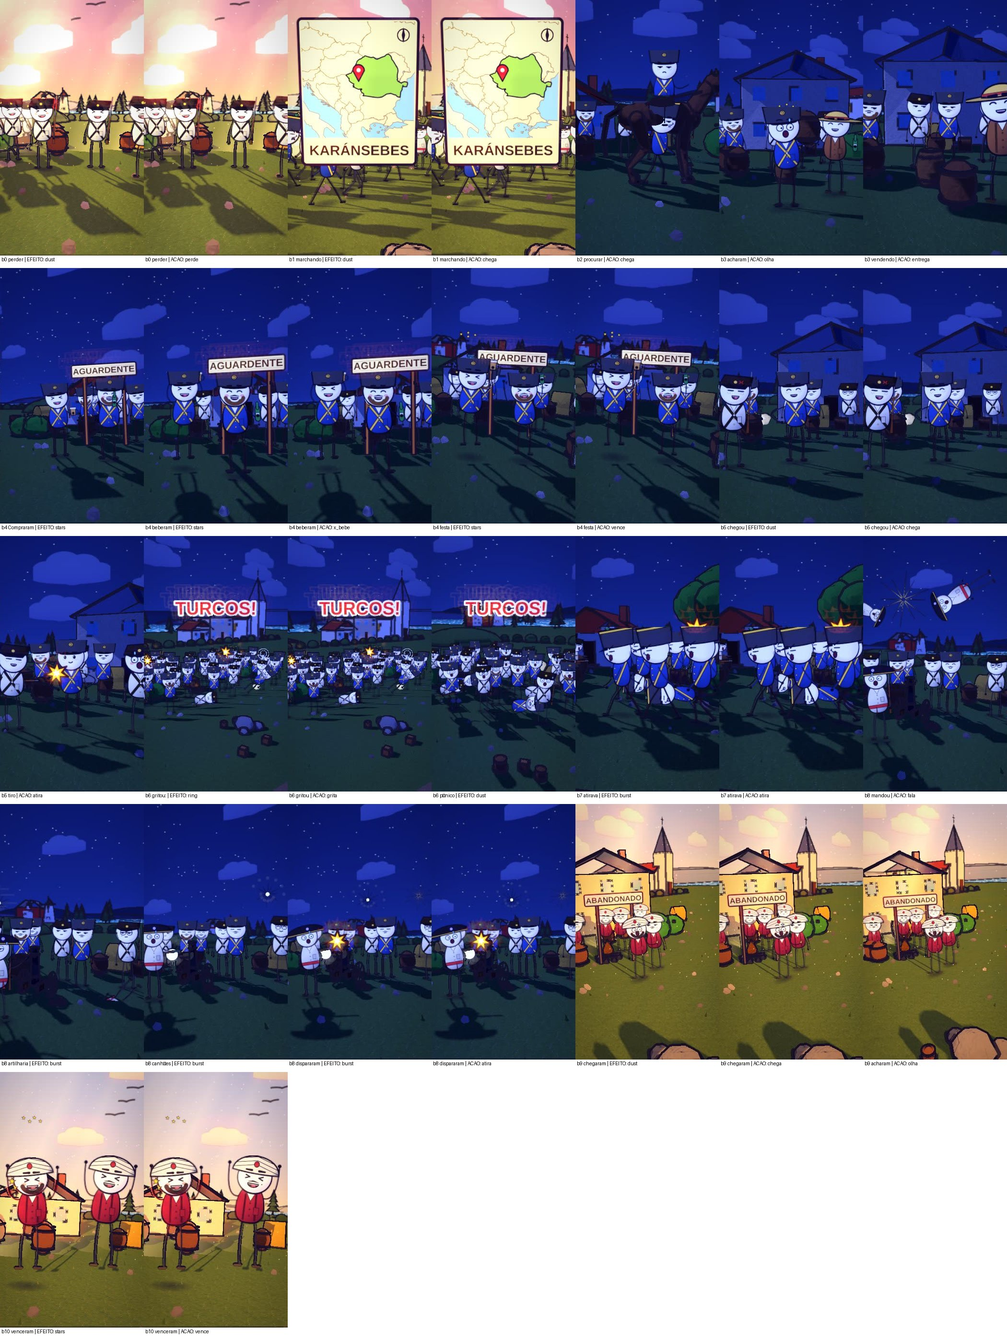
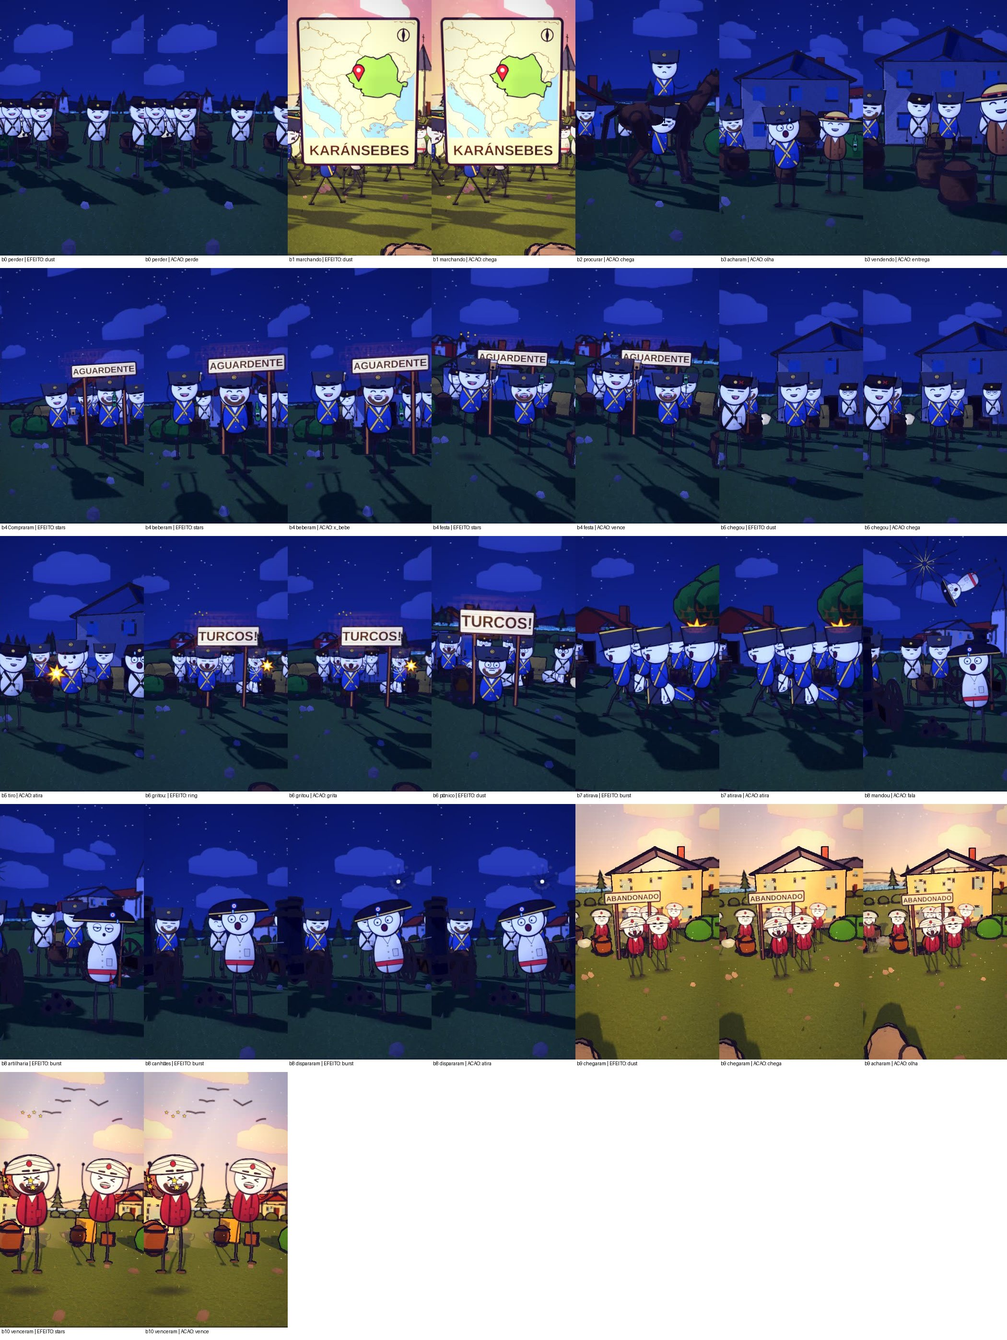
Los Angeles: storyboard aprovado
Claude-Session: https://claude.ai/code/session_01HE8Dy3UcXXZZMLa7uzjNJD

Changed region(s): [[0.0, 0.3735, 1.0, 0.9961], [0.0, 0.0, 0.3095, 0.2179]]

diff --git a/ferramenta-shorts/stories/losangeles1942/folha2_producao.md b/ferramenta-shorts/stories/losangeles1942/folha2_producao.md
@@ -11,6 +11,23 @@ Coordenadas de cada cena para modelagem, animacao e camera, com os RISCOS que o 
 - Objetos/modelos: kit/searchlight, buildings/apartment, buildings/house_two, nature/lamppost
 - CONFERIR NA FOLHA DE CONTATO (o que a narracao cita tem que aparecer): cidade
 - RISCOS: nenhum
+<!-- FICHA -->
+
+### FICHA TECNICA DA CENA (lugar, camera, personagens, objetos, efeitos, texto)
+- LOCAL: rua de cidade (predios dos dois lados); hora: noite
+- CAMERA: plano medio, 2 personagens de corpo inteiro; plano medio enquadrando personagens e searchlight juntos (camera a 11.5 m)
+- PERSONAGENS: SOL (soldado) na esquerda, expressao shock; CID (comerciante) na direita, expressao scared; multidao de 12 (CID, SOL) ATRAS dos principais; acao: susto
+- OBJETO kit/searchlight: MEIO, centro (objeto principal da cena); tamanho na tela: 32% da altura da tela; estado: PARADO; 1.8 m: entre e um pouco atras dos personagens, mesmo plano, tamanho de uma pessoa
+- EFEITO clarao/explosao: na frente, na altura do peito do 1o personagem; entra no quadro +25 da cena
+- EFEITO clarao/explosao: na frente, na altura do peito do 1o personagem; entra no quadro +40 da cena
+- EFEITO clarao/explosao: na frente, na altura do peito do 1o personagem; entra no quadro +60 da cena
+- SOM: cannon@25
+- SOM: cannon@40
+- SOM: cannon@60
+- TAKES: 2 takes (troca de angulo a cada ~1.9 s, sem corte seco):
+  - take 1 (0.2-2.0 s): gira 12 graus para a direita, camera mais baixa, olhando um pouco de baixo
+  - take 2 (2.0-3.9 s): mesmo angulo
+<!-- /FICHA -->
 
 ## Cena b1 - Era fevereiro de mil novecentos e quarenta e dois, logo depois de Pear...
 - Cenario: street | luz: noite | clima: limpo
@@ -21,6 +38,19 @@ Coordenadas de cada cena para modelagem, animacao e camera, com os RISCOS que o 
 - Objetos/modelos: -
 - CONFERIR NA FOLHA DE CONTATO (o que a narracao cita tem que aparecer): medo, pearl
 - RISCOS: nenhum
+<!-- FICHA -->
+
+### FICHA TECNICA DA CENA (lugar, camera, personagens, objetos, efeitos, texto)
+- LOCAL: rua de cidade (predios dos dois lados); hora: noite
+- CAMERA: revelacao (camera sobe e abre)
+- PERSONAGENS: CID (comerciante) na esquerda, expressao nervous; CID (comerciante) na direita, expressao scared; multidao de 8 (POV) ATRAS dos principais; acao: fala/gesto
+- OBJETOS: so cenario (nenhum objeto da historia nesta cena)
+- MAPA: LOS ANGELES (cobre a tela 1-2 s)
+- TAKES: 3 takes (troca de angulo a cada ~1.8 s, sem corte seco):
+  - take 1 (5.0-6.8 s): gira 16 graus para a direita, camera mais baixa, olhando um pouco de baixo, um pouco mais perto
+  - take 2 (6.8-8.5 s): gira 14 graus para a esquerda, camera mais alta, olhando um pouco de cima, um pouco mais longe
+  - take 3 (8.5-10.3 s): gira 8 graus para a direita, camera mais baixa, olhando um pouco de baixo, um pouco mais perto
+<!-- /FICHA -->
 
 ## Cena b2 - Na véspera, um submarino japonês tinha atirado na Califórnia, e todo m...
 - Cenario: harbor | luz: pordosol | clima: limpo
@@ -31,6 +61,21 @@ Coordenadas de cada cena para modelagem, animacao e camera, com os RISCOS que o 
 - Objetos/modelos: kit/submarino_ww2
 - CONFERIR NA FOLHA DE CONTATO (o que a narracao cita tem que aparecer): california, submarino, vespera
 - RISCOS: nenhum
+<!-- FICHA -->
+
+### FICHA TECNICA DA CENA (lugar, camera, personagens, objetos, efeitos, texto)
+- LOCAL: cais de madeira na beira do mar (agua e horizonte ao fundo); hora: pordosol
+- CAMERA: plano aberto (cenario inteiro); plano aberto mirando o submarino_ww2 (alvo z -2.0, camera a 20.0 m, altura 4.0 m), multidao ATRAS dos personagens, na frente do objeto
+- PERSONAGENS: CID (comerciante) no centro, expressao scared; sem multidao; acao: fala/gesto
+- OBJETO kit/submarino_ww2: FUNDO, centro (objeto principal da cena); tamanho na tela: 30% da altura da tela; estado: PARADO; 19.2 m de altura x 70.9 m: ATRAS dos personagens, de lado, ocupando a largura do quadro (a ponta pode sair da tela); personagens na frente, menores
+- EFEITO clarao/explosao: na frente, na altura do peito do 1o personagem; entra no quadro +68 da cena
+- SOM: cannon@68
+- TEXTO NA TELA: "SUBMARINO JAPONÊS" flutuando no alto, na palavra 3 da frase
+- TAKES: 3 takes (troca de angulo a cada ~1.8 s, sem corte seco):
+  - take 1 (11.5-13.3 s): gira 18 graus para a esquerda, camera mais alta, olhando um pouco de cima, um pouco mais longe
+  - take 2 (13.3-15.0 s): gira 12 graus para a direita, camera mais baixa, olhando um pouco de baixo
+  - take 3 (15.0-16.8 s): mesmo angulo
+<!-- /FICHA -->
 
 ## Cena b3 - Na madrugada, as sirenes tocaram, as luzes da cidade se apagaram, e ho...
 - Cenario: harbor | luz: noite | clima: limpo
@@ -41,6 +86,22 @@ Coordenadas de cada cena para modelagem, animacao e camera, com os RISCOS que o 
 - Objetos/modelos: kit/searchlight, buildings/apartment, buildings/house_two, nature/lamppost
 - CONFERIR NA FOLHA DE CONTATO (o que a narracao cita tem que aparecer): cidade, luzes, madrugada, sirenes
 - RISCOS: nenhum
+<!-- FICHA -->
+
+### FICHA TECNICA DA CENA (lugar, camera, personagens, objetos, efeitos, texto)
+- LOCAL: cais de madeira na beira do mar (agua e horizonte ao fundo); hora: noite
+- CAMERA: camera baixa olhando para cima; plano medio enquadrando personagens e searchlight juntos (camera a 11.5 m)
+- PERSONAGENS: SOL (soldado) na esquerda, expressao stern; CID (comerciante) na direita, expressao shock; sem multidao; acao: fala/gesto
+- OBJETO kit/searchlight: MEIO, centro (objeto principal da cena); tamanho na tela: 32% da altura da tela; estado: PARADO; 1.8 m: entre e um pouco atras dos personagens, mesmo plano, tamanho de uma pessoa
+- OBJETO kit/searchlight: MEIO, direita; tamanho na tela: 32% da altura da tela; estado: PARADO; 1.8 m: entre e um pouco atras dos personagens, mesmo plano, tamanho de uma pessoa
+- OBJETO kit/searchlight: MEIO, esquerda; tamanho na tela: 32% da altura da tela; estado: PARADO; 1.8 m: entre e um pouco atras dos personagens, mesmo plano, tamanho de uma pessoa
+- EFEITO estrelinhas sobre a cabeca (susto/tontura): acima da cabeca; entra no quadro +40 da cena
+- SOM: ding@40
+- TAKES: 3 takes (troca de angulo a cada ~1.8 s, sem corte seco):
+  - take 1 (17.8-19.6 s): gira 16 graus para a direita, camera mais baixa, olhando um pouco de baixo, um pouco mais perto
+  - take 2 (19.6-21.4 s): gira 14 graus para a esquerda, camera mais alta, olhando um pouco de cima, um pouco mais longe
+  - take 3 (21.4-23.2 s): gira 8 graus para a direita, camera mais baixa, olhando um pouco de baixo, um pouco mais perto
+<!-- /FICHA -->
 
 ## Cena b4 - Alguém viu um objeto no céu, e os soldados começaram a atirar com canh...
 - Cenario: street | luz: noite | clima: limpo
@@ -51,6 +112,23 @@ Coordenadas de cada cena para modelagem, animacao e camera, com os RISCOS que o 
 - Objetos/modelos: kit/canhao_moderno, cannon
 - CONFERIR NA FOLHA DE CONTATO (o que a narracao cita tem que aparecer): atirar, canhoes, objeto, soldados
 - RISCOS: nenhum
+<!-- FICHA -->
+
+### FICHA TECNICA DA CENA (lugar, camera, personagens, objetos, efeitos, texto)
+- LOCAL: rua de cidade (predios dos dois lados); hora: noite
+- CAMERA: plano aberto (cenario inteiro); plano aberto mirando o cannon (alvo z -3.6, camera a 14.5 m, altura 2.4 m), multidao ATRAS dos personagens, na frente do objeto
+- PERSONAGENS: SOL (soldado) no centro, expressao shout; multidao de 3 (SOL) ATRAS dos principais; acao: fala/gesto
+- OBJETO cannon: FUNDO, centro (objeto principal da cena); tamanho na tela: 30% da altura da tela; estado: PARADO; 4.1 m de altura x 5.9 m: ATRAS dos personagens, de lado, ocupando a largura do quadro (a ponta pode sair da tela); personagens na frente, menores
+- OBJETO cannon: FUNDO, direita; tamanho na tela: 18% da altura da tela; estado: PARADO; 4.1 m de altura x 5.9 m: ATRAS dos personagens, de lado, ocupando a largura do quadro (a ponta pode sair da tela); personagens na frente, menores
+- EFEITO clarao/explosao: na frente, na altura do peito do 1o personagem; entra no quadro +40 da cena
+- EFEITO clarao/explosao: na frente, na altura do peito do 1o personagem; entra no quadro +90 da cena
+- SOM: cannon@40
+- SOM: cannon@90
+- TEXTO NA TELA: "FOGO!" flutuando no alto, na palavra 1 da frase
+- TAKES: 2 takes (troca de angulo a cada ~2.1 s, sem corte seco):
+  - take 1 (24.2-26.3 s): gira 18 graus para a esquerda, camera mais alta, olhando um pouco de cima, um pouco mais longe
+  - take 2 (26.3-28.4 s): gira 12 graus para a direita, camera mais baixa, olhando um pouco de baixo
+<!-- /FICHA -->
 
 ## Cena b5 - Os soldados juravam que havia inimigos no céu. Acontece que não havia ...
 - Cenario: harbor | luz: noite | clima: limpo
@@ -61,6 +139,18 @@ Coordenadas de cada cena para modelagem, animacao e camera, com os RISCOS que o 
 - Objetos/modelos: -
 - CONFERIR NA FOLHA DE CONTATO (o que a narracao cita tem que aparecer): soldados
 - RISCOS: nenhum
+<!-- FICHA -->
+
+### FICHA TECNICA DA CENA (lugar, camera, personagens, objetos, efeitos, texto)
+- LOCAL: cais de madeira na beira do mar (agua e horizonte ao fundo); hora: noite
+- CAMERA: plano medio, 2 personagens de corpo inteiro
+- PERSONAGENS: SOL (soldado) na esquerda, expressao shout; GEN (general) na direita, expressao surprised; multidao de 12 (GEN, SOL) ATRAS dos principais; acao: discutir
+- OBJETOS: so cenario (nenhum objeto da historia nesta cena)
+- TAKES: 3 takes (troca de angulo a cada ~1.9 s, sem corte seco):
+  - take 1 (29.7-31.6 s): mesmo angulo
+  - take 2 (31.6-33.6 s): gira 16 graus para a direita, camera mais baixa, olhando um pouco de baixo, um pouco mais perto
+  - take 3 (33.6-35.5 s): gira 14 graus para a esquerda, camera mais alta, olhando um pouco de cima, um pouco mais longe
+<!-- /FICHA -->
 
 ## Cena b6 - Foram mais de mil tiros de canhão, e os estilhaços caíram na cidade, q...
 - Cenario: loc_cidade | luz: noite | clima: limpo
@@ -71,6 +161,22 @@ Coordenadas de cada cena para modelagem, animacao e camera, com os RISCOS que o 
 - Objetos/modelos: kit/canhao_moderno, kit/searchlight, cannon, buildings/apartment, buildings/house_two, nature/lamppost
 - CONFERIR NA FOLHA DE CONTATO (o que a narracao cita tem que aparecer): canhao, cidade, estilhacos
 - RISCOS: nenhum
+<!-- FICHA -->
+
+### FICHA TECNICA DA CENA (lugar, camera, personagens, objetos, efeitos, texto)
+- LOCAL: loc_cidade; hora: noite
+- CAMERA: plano de multidao; plano medio enquadrando personagens e searchlight juntos (camera a 11.5 m)
+- PERSONAGENS: CID (comerciante) na esquerda, expressao scared; CID (comerciante) na direita, expressao cry; multidao de 20 (SOL, POV) ATRAS dos principais; acao: fala/gesto
+- OBJETO kit/searchlight: MEIO, centro (objeto principal da cena); tamanho na tela: 32% da altura da tela; estado: PARADO; 1.8 m: entre e um pouco atras dos personagens, mesmo plano, tamanho de uma pessoa
+- OBJETO cannon: FUNDO, direita; tamanho na tela: 18% da altura da tela; estado: PARADO; 4.1 m de altura x 5.9 m: ATRAS dos personagens, de lado, ocupando a largura do quadro (a ponta pode sair da tela); personagens na frente, menores
+- EFEITO clarao/explosao: na frente, na altura do peito do 1o personagem; entra no quadro +40 da cena
+- EFEITO clarao/explosao: na frente, na altura do peito do 1o personagem; entra no quadro +100 da cena
+- SOM: cannon@40
+- SOM: cannon@100
+- TAKES: 2 takes (troca de angulo a cada ~2.2 s, sem corte seco):
+  - take 1 (36.8-39.0 s): gira 8 graus para a direita, camera mais baixa, olhando um pouco de baixo, um pouco mais perto
+  - take 2 (39.0-41.2 s): gira 18 graus para a esquerda, camera mais alta, olhando um pouco de cima, um pouco mais longe
+<!-- /FICHA -->
 
 ## Cena b7 - No dia seguinte, os militares discutiram o que tinha acontecido, e nin...
 - Cenario: interior madeira | luz: day | clima: limpo
@@ -81,6 +187,17 @@ Coordenadas de cada cena para modelagem, animacao e camera, com os RISCOS que o 
 - Objetos/modelos: -
 - CONFERIR NA FOLHA DE CONTATO (o que a narracao cita tem que aparecer): militares
 - RISCOS: nenhum
+<!-- FICHA -->
+
+### FICHA TECNICA DA CENA (lugar, camera, personagens, objetos, efeitos, texto)
+- LOCAL: sala de madeira; hora: dia
+- CAMERA: plano medio, 2 personagens de corpo inteiro
+- PERSONAGENS: GEN (general) na esquerda, expressao stern, segura paper; PRE (politico) na direita, expressao nervous; sem multidao; acao: susto
+- OBJETOS: so cenario (nenhum objeto da historia nesta cena)
+- TAKES: 2 takes (troca de angulo a cada ~2.1 s, sem corte seco):
+  - take 1 (42.3-44.4 s): mesmo angulo
+  - take 2 (44.4-46.5 s): gira 16 graus para a direita, camera mais baixa, olhando um pouco de baixo, um pouco mais perto
+<!-- /FICHA -->
 
 ## Cena b8 - Algumas pessoas morreram, por acidente e por susto, mas nenhum inimigo...
 - Cenario: loc_cidade | luz: noite | clima: limpo
@@ -91,6 +208,17 @@ Coordenadas de cada cena para modelagem, animacao e camera, com os RISCOS que o 
 - Objetos/modelos: -
 - CONFERIR NA FOLHA DE CONTATO (o que a narracao cita tem que aparecer): -
 - RISCOS: nenhum
+<!-- FICHA -->
+
+### FICHA TECNICA DA CENA (lugar, camera, personagens, objetos, efeitos, texto)
+- LOCAL: loc_cidade; hora: noite
+- CAMERA: plano medio, 2 personagens de corpo inteiro
+- PERSONAGENS: CID (comerciante) na esquerda, expressao sad; CID (comerciante) na direita, expressao cry; multidao de 12 (CID) ATRAS dos principais; acao: fala/gesto
+- OBJETOS: so cenario (nenhum objeto da historia nesta cena)
+- TAKES: 2 takes (troca de angulo a cada ~2.0 s, sem corte seco):
+  - take 1 (47.6-49.5 s): gira 14 graus para a esquerda, camera mais alta, olhando um pouco de cima, um pouco mais longe
+  - take 2 (49.5-51.5 s): gira 8 graus para a direita, camera mais baixa, olhando um pouco de baixo, um pouco mais perto
+<!-- /FICHA -->
 
 ## Cena b9 - O único alvo derrotado naquela noite foi o sono de Los Angeles.
 - Cenario: street | luz: noite | clima: limpo
@@ -101,6 +229,17 @@ Coordenadas de cada cena para modelagem, animacao e camera, com os RISCOS que o 
 - Objetos/modelos: kit/searchlight
 - CONFERIR NA FOLHA DE CONTATO (o que a narracao cita tem que aparecer): sono
 - RISCOS: nenhum
+<!-- FICHA -->
+
+### FICHA TECNICA DA CENA (lugar, camera, personagens, objetos, efeitos, texto)
+- LOCAL: rua de cidade (predios dos dois lados); hora: noite
+- CAMERA: plano medio, 2 personagens de corpo inteiro; plano medio enquadrando personagens e searchlight juntos (camera a 8.0 m)
+- PERSONAGENS: CID (comerciante) no centro, expressao smile; sem multidao; acao: fala/gesto
+- OBJETO kit/searchlight: MEIO, direita (objeto principal da cena); tamanho na tela: 32% da altura da tela; estado: PARADO; 1.8 m: ao lado do personagem, mesmo plano, tamanho de uma pessoa
+- TAKES: 2 takes (troca de angulo a cada ~1.4 s, sem corte seco):
+  - take 1 (52.8-54.2 s): gira 12 graus para a direita, camera mais baixa, olhando um pouco de baixo
+  - take 2 (54.2-55.6 s): mesmo angulo
+<!-- /FICHA -->
 
 ## Cena b10 - Agora não deixe de comentar: qual deve ser o tema do próximo vídeo?
 - Cenario: street | luz: noite | clima: limpo
@@ -137,3 +276,12 @@ cannon | b4, b6 | pronto | conferir na folha de contato se le bem; se parecer ca
 - Defeito em poucas cenas e narracao igual: corrija o beats.json e `./refazer.sh losangeles1942 bN bM` (so essas cenas).
 - Mudou narracao, ferramenta ou muitas cenas: `./refazer_tudo.sh losangeles1942` (render completo).
 - Personagem cortado: tire gente do "who" ou use "shot": "group". Cena vazia: confira "who". Objeto fora do quadro: ponha em "props" com x entre -2 e 2. Luz estourada: "hora"/"clima" na cena.
+<!-- FICHA -->
+
+### FICHA TECNICA DA CENA (lugar, camera, personagens, objetos, efeitos, texto)
+- (sem ficha)
+- TAKES: 2 takes (troca de angulo a cada ~1.7 s, sem corte seco):
+  - take 1 (56.8-58.5 s): mesmo angulo
+  - take 2 (58.5-60.2 s): gira 16 graus para a direita, camera mais baixa, olhando um pouco de baixo, um pouco mais perto
+<!-- /FICHA -->
+

diff --git a/ferramenta-shorts/stories/losangeles1942/folha3_acao.md b/ferramenta-shorts/stories/losangeles1942/folha3_acao.md
@@ -15,6 +15,14 @@ Catalogo de TODAS as acoes do roteiro, frase por frase, com o instante (segundos
 | 1 | atirando (1.7s) | ACAO: atira | arma na mao, aponta, clarao e som de tiro | OK |
 | 2 | - | INTERACAO | susto | OK |
 | 3 | - | ATUACAO | reagir | OK |
+<!-- FISICA -->
+
+**FISICA E MOVIMENTO (como cada acao acontece na tela):**
+- ACAO: atira na palavra atirando (1.7s): clarao no cano da arma por ~0,25 s + estampido; a arma recua; o alvo (se houver) tomba
+- INTERACAO (a cena toda): executa: susto
+- ATUACAO (a cena toda): executa: reagir
+- multidao de 12: parada, reagindo (neutra), sempre ATRAS dos personagens principais
+<!-- /FISICA -->
 
 ## Cena b1 - 5.0s a 10.3s - 20 palavras - plano wide
 > "Era fevereiro de mil novecentos e quarenta e dois, logo depois de Pearl Harbor, e Los Angeles vivia com medo."
@@ -28,6 +36,15 @@ Catalogo de TODAS as acoes do roteiro, frase por frase, com o instante (segundos
 | 2 | - | GRANDE MOMENTO | plano de impacto: efeito + som na palavra-chave (sem tiro) | OK |
 | 3 | - | ATUACAO | reagir | OK |
 | 4 | - | MAPA | LOS ANGELES | OK |
+<!-- FISICA -->
+
+**FISICA E MOVIMENTO (como cada acao acontece na tela):**
+- EMOCAO: scared (a cena toda): executa: o rosto vira "scared" na palavra
+- GRANDE MOMENTO (a cena toda): clarao no cano da arma por ~0,25 s + estampido; a arma recua; o alvo (se houver) tomba
+- ATUACAO (a cena toda): executa: reagir
+- MAPA (a cena toda): mapa entra em ~0,3 s e cobre a tela por 1-2 s, com o ponto do lugar pulsando
+- multidao de 8: parada, reagindo (neutra), sempre ATRAS dos personagens principais
+<!-- /FISICA -->
 
 ## Cena b2 - 11.5s a 16.8s - 16 palavras - plano orbit
 > "Na véspera, um submarino japonês tinha atirado na Califórnia, e todo mundo achava que vinha mais."
@@ -40,6 +57,12 @@ Catalogo de TODAS as acoes do roteiro, frase por frase, com o instante (segundos
 |---|---|---|---|---|
 | 1 | - | CENA | objeto: submarino_ww2 atira (na palavra "atirado") | OK |
 | 2 | - | PLACA | SUBMARINO JAPONÊS | OK |
+<!-- FISICA -->
+
+**FISICA E MOVIMENTO (como cada acao acontece na tela):**
+- CENA (a cena toda): clarao no cano da arma por ~0,25 s + estampido; a arma recua; o alvo (se houver) tomba
+- PLACA (a cena toda): texto entra com um pulo de escala (~0,2 s) e fica ate o fim da cena
+<!-- /FISICA -->
 
 ## Cena b3 - 17.8s a 23.2s - 16 palavras - plano low
 > "Na madrugada, as sirenes tocaram, as luzes da cidade se apagaram, e holofotes varreram o céu."
@@ -53,6 +76,13 @@ Catalogo de TODAS as acoes do roteiro, frase por frase, com o instante (segundos
 | 1 | - | CENA | objeto: searchlight toca (na palavra "tocaram") | OK |
 | 2 | - | INTERACAO | entregar | OK |
 | 3 | - | ATUACAO | conversar | OK |
+<!-- FISICA -->
+
+**FISICA E MOVIMENTO (como cada acao acontece na tela):**
+- CENA (a cena toda): executa: objeto: searchlight toca (na palavra "tocaram")
+- INTERACAO (a cena toda): executa: entregar
+- ATUACAO (a cena toda): executa: conversar
+<!-- /FISICA -->
 
 ## Cena b4 - 24.2s a 28.4s - 15 palavras - plano wide
 > "Alguém viu um objeto no céu, e os soldados começaram a atirar com canhões antiaéreos."
@@ -68,6 +98,16 @@ Catalogo de TODAS as acoes do roteiro, frase por frase, com o instante (segundos
 | 3 | atirar (27.5s) | ACAO: atira | arma na mao, aponta, clarao e som de tiro | OK |
 | 4 | canhões (28.1s) | EFEITO: burst | estouro/clarao + som | OK |
 | 5 | - | PLACA | FOGO! | OK |
+<!-- FISICA -->
+
+**FISICA E MOVIMENTO (como cada acao acontece na tela):**
+- ACAO: olha na palavra viu (24.6s): braco estendido apontando para o objeto/lugar citado
+- EFEITO: burst na palavra atirar (27.5s): clarao laranja que cresce em ~0,15 s, nuvem de fumaca que sobe e some em ~1 s, estrondo grave
+- ACAO: atira na palavra atirar (27.5s): clarao no cano da arma por ~0,25 s + estampido; a arma recua; o alvo (se houver) tomba
+- EFEITO: burst na palavra canhões (28.1s): clarao laranja que cresce em ~0,15 s, nuvem de fumaca que sobe e some em ~1 s, estrondo grave
+- PLACA (a cena toda): texto entra com um pulo de escala (~0,2 s) e fica ate o fim da cena
+- multidao de 3: parada, reagindo (shout), sempre ATRAS dos personagens principais
+<!-- /FISICA -->
 
 ## Cena b5 - 29.7s a 35.5s - 18 palavras - plano group
 > "Os soldados juravam que havia inimigos no céu. Acontece que não havia nada ali, só nuvens e fumaça."
@@ -79,6 +119,13 @@ Catalogo de TODAS as acoes do roteiro, frase por frase, com o instante (segundos
 |---|---|---|---|---|
 | 1 | - | INTERACAO | discutir | OK |
 | 2 | - | ATUACAO | discutir | OK |
+<!-- FISICA -->
+
+**FISICA E MOVIMENTO (como cada acao acontece na tela):**
+- INTERACAO (a cena toda): os dois inclinam o tronco um para o outro alternando, bocas abertas, gesto de apontar
+- ATUACAO (a cena toda): os dois inclinam o tronco um para o outro alternando, bocas abertas, gesto de apontar
+- multidao de 12: parada, reagindo (neutra), sempre ATRAS dos personagens principais
+<!-- /FISICA -->
 
 ## Cena b6 - 36.8s a 41.2s - 17 palavras - plano crowd
 > "Foram mais de mil tiros de canhão, e os estilhaços caíram na cidade, que ficou em pânico."
@@ -95,6 +142,18 @@ Catalogo de TODAS as acoes do roteiro, frase por frase, com o instante (segundos
 | 5 | pânico (41.2s) | ACAO: grita | grita de bracos para cima | OK |
 | 6 | - | EMOCAO: scared | o rosto vira "scared" na palavra | OK |
 | 7 | - | BATALHA | tropa em combate: tiros piscando pela tropa, soldados caindo | OK |
+<!-- FISICA -->
+
+**FISICA E MOVIMENTO (como cada acao acontece na tela):**
+- EFEITO: burst na palavra tiros (37.6s): clarao laranja que cresce em ~0,15 s, nuvem de fumaca que sobe e some em ~1 s, estrondo grave
+- EFEITO: burst na palavra canhão (38.1s): clarao laranja que cresce em ~0,15 s, nuvem de fumaca que sobe e some em ~1 s, estrondo grave
+- EFEITO: dust na palavra caíram (39.5s): executa: poeira + som
+- EFEITO: dust na palavra pânico (41.2s): executa: poeira + som
+- ACAO: grita na palavra pânico (41.2s): os dois inclinam o tronco um para o outro alternando, bocas abertas, gesto de apontar
+- EMOCAO: scared (a cena toda): executa: o rosto vira "scared" na palavra
+- BATALHA (a cena toda): o corpo inclina para tras e cai no chao em ~0,4 s (poeira no impacto) e fica deitado ate o fim da cena
+- multidao de 20: parada, reagindo (scared), sempre ATRAS dos personagens principais
+<!-- /FISICA -->
 
 ## Cena b7 - 42.3s a 46.5s - 14 palavras - plano two
 > "No dia seguinte, os militares discutiram o que tinha acontecido, e ninguém sabia dizer."
@@ -107,6 +166,13 @@ Catalogo de TODAS as acoes do roteiro, frase por frase, com o instante (segundos
 | 1 | discutiram (43.9s) | ACAO: x_discute | discussao cara a cara (dedo apontado) | OK |
 | 2 | - | INTERACAO | susto | OK |
 | 3 | - | ATUACAO | conversar | OK |
+<!-- FISICA -->
+
+**FISICA E MOVIMENTO (como cada acao acontece na tela):**
+- ACAO: x_discute na palavra discutiram (43.9s): os dois inclinam o tronco um para o outro alternando, bocas abertas, gesto de apontar
+- INTERACAO (a cena toda): executa: susto
+- ATUACAO (a cena toda): executa: conversar
+<!-- /FISICA -->
 
 ## Cena b8 - 47.6s a 51.5s - 12 palavras - plano two
 > "Algumas pessoas morreram, por acidente e por susto, mas nenhum inimigo apareceu."
@@ -121,6 +187,16 @@ Catalogo de TODAS as acoes do roteiro, frase por frase, com o instante (segundos
 | 3 | - | INTERACAO | o outro se aproxima | OK |
 | 4 | - | ATUACAO | conversar | OK |
 | 5 | - | CHEGADA | alguem entra andando | OK |
+<!-- FISICA -->
+
+**FISICA E MOVIMENTO (como cada acao acontece na tela):**
+- EFEITO: puff na palavra morreram (48.5s): executa: fumaca + som
+- EMOCAO: sad (a cena toda): executa: o rosto vira "sad" na palavra
+- INTERACAO (a cena toda): executa: o outro se aproxima
+- ATUACAO (a cena toda): executa: conversar
+- CHEGADA (a cena toda): executa: alguem entra andando
+- multidao de 12: parada, reagindo (neutra), sempre ATRAS dos personagens principais
+<!-- /FISICA -->
 
 ## Cena b9 - 52.8s a 55.6s - 12 palavras - plano two
 > "O único alvo derrotado naquela noite foi o sono de Los Angeles."
@@ -132,6 +208,12 @@ Catalogo de TODAS as acoes do roteiro, frase por frase, com o instante (segundos
 |---|---|---|---|---|
 | 1 | derrotado (53.5s) | EFEITO: puff | fumaca + som | OK |
 | 2 | - | ATUACAO | conversar | OK |
+<!-- FISICA -->
+
+**FISICA E MOVIMENTO (como cada acao acontece na tela):**
+- EFEITO: puff na palavra derrotado (53.5s): executa: fumaca + som
+- ATUACAO (a cena toda): executa: conversar
+<!-- /FISICA -->
 
 ## Cena b10 - 56.8s a 60.2s - 13 palavras - plano close
 > "Agora não deixe de comentar: qual deve ser o tema do próximo vídeo?"
@@ -140,4 +222,10 @@ Catalogo de TODAS as acoes do roteiro, frase por frase, com o instante (segundos
 |---|---|---|---|---|
 | 1 | - | ATUACAO | conversar | OK |
 | 2 | - | PLACA | COMENTE! | OK |
+<!-- FISICA -->
+
+**FISICA E MOVIMENTO (como cada acao acontece na tela):**
+- ATUACAO (a cena toda): executa: conversar
+- PLACA (a cena toda): texto entra com um pulo de escala (~0,2 s) e fica ate o fim da cena
+<!-- /FISICA -->
 

diff --git a/ferramenta-shorts/stories/losangeles1942/cronograma.md b/ferramenta-shorts/stories/losangeles1942/cronograma.md
@@ -1,6 +1,6 @@
 # CRONOGRAMA - Guerras Inusitadas EP 20 - A Batalha de Los Angeles
 
-Gerado em 25/11 09:59 | 11 cenas | metricas: acoes_encenadas 100%, acoes_chave_com_efeito 100%, explicacoes_cobertas 100%, cenario_e_epoca_ok 100%
+Gerado em 25/11 10:00 | 11 cenas | metricas: acoes_encenadas 100%, acoes_chave_com_efeito 100%, explicacoes_cobertas 100%, cenario_e_epoca_ok 100%
 
 ## 1. Plano de cenas (o que cada frase vai mostrar)
 
